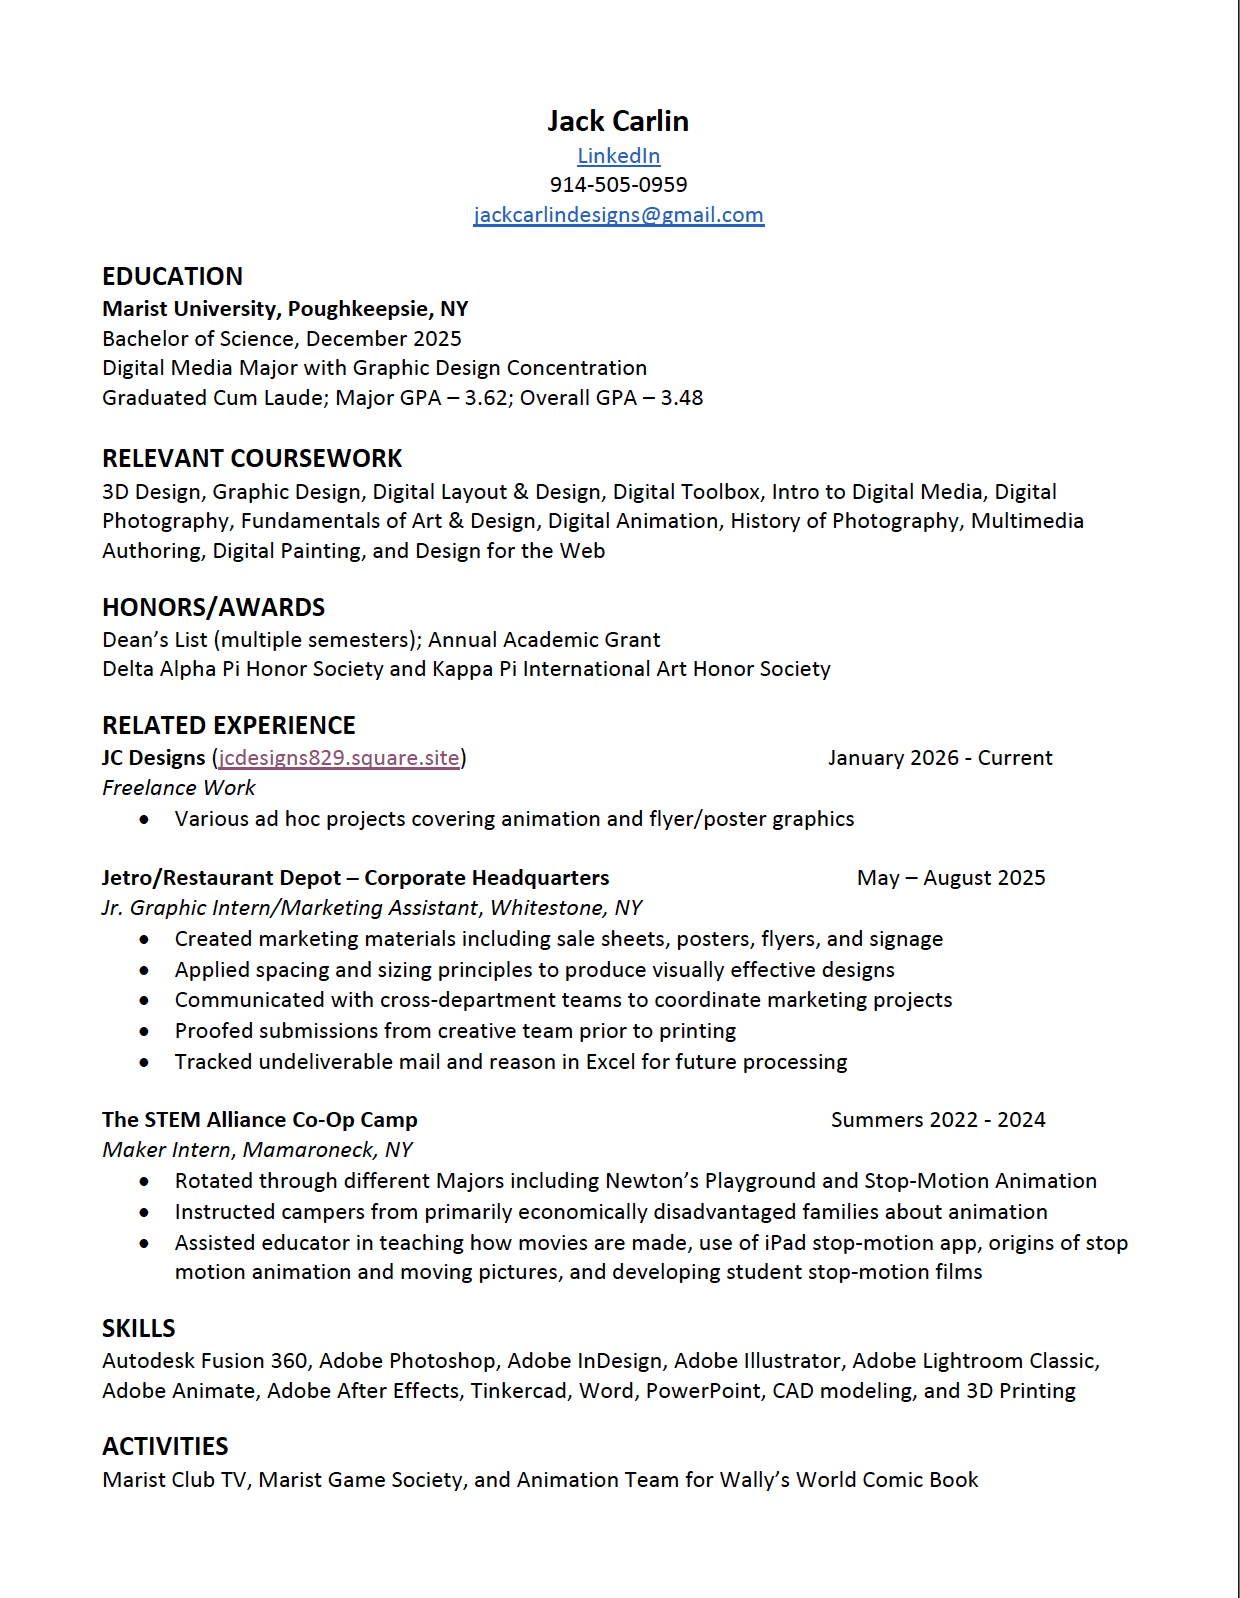
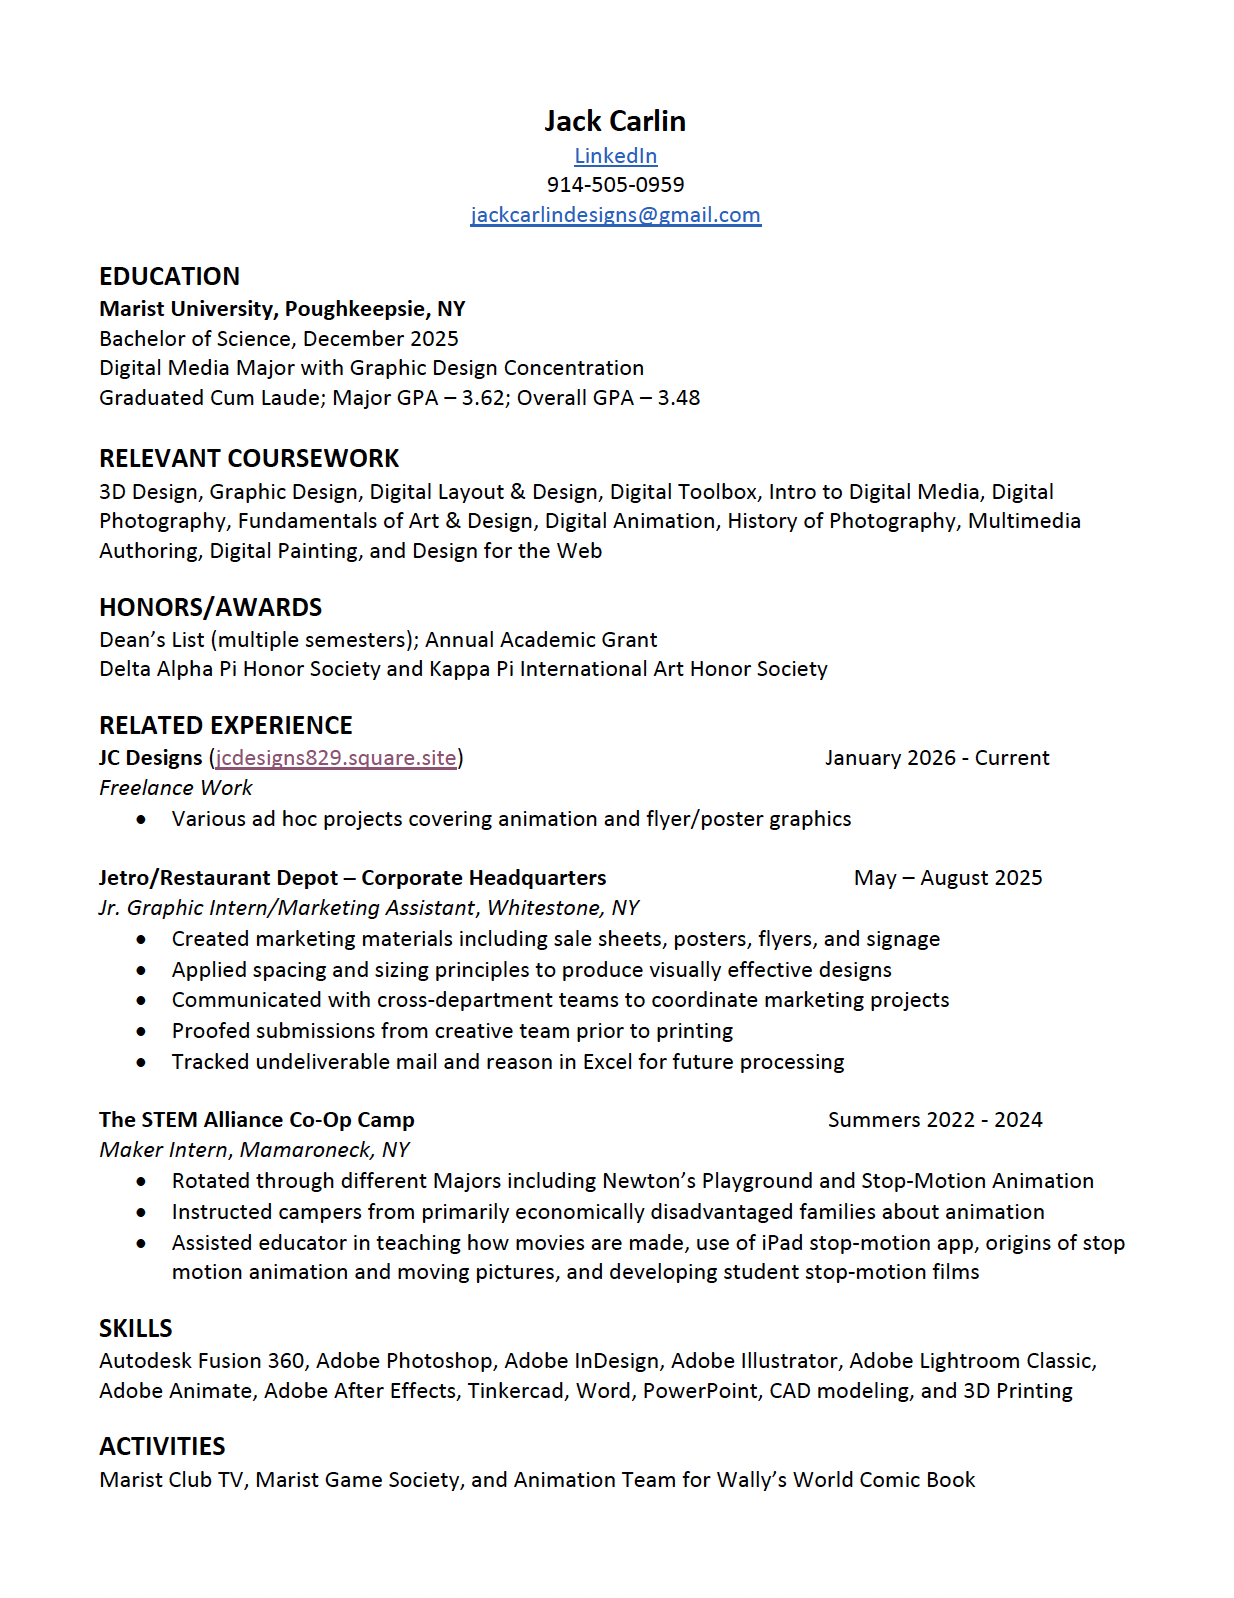
Crop the dark line off the right edge of the resume image

diff --git a/resume.html b/resume.html
@@ -7,10 +7,10 @@ title: Resume
   <p><a class="button" href="{{ '/images/Jack-Carlin-Resume.pdf' | relative_url }}" download="Jack-Carlin-Resume.pdf">Download PDF</a>
   <button type="button" class="button" id="enlarge">Click to enlarge</button></p>
 </header>
-<img class="resume" id="resume-img"  src="{{ '/images/resume.png' | relative_url }}" alt="Jack Carlin's resume" width="1240" height="1598">
+<img class="resume" id="resume-img"  src="{{ '/images/resume.png' | relative_url }}" alt="Jack Carlin's resume" width="1234" height="1598">
 <dialog class="resume-viewer" id="resume-viewer" aria-label="Enlarged resume">
   <button type="button" class="button resume-close" id="resume-close">Close</button>
-  <img src="{{ '/images/resume.png' | relative_url }}" alt="Jack Carlin's resume, enlarged" width="1240" height="1598">
+  <img src="{{ '/images/resume.png' | relative_url }}" alt="Jack Carlin's resume, enlarged" width="1234" height="1598">
 </dialog>
 <script>
 (function () {
